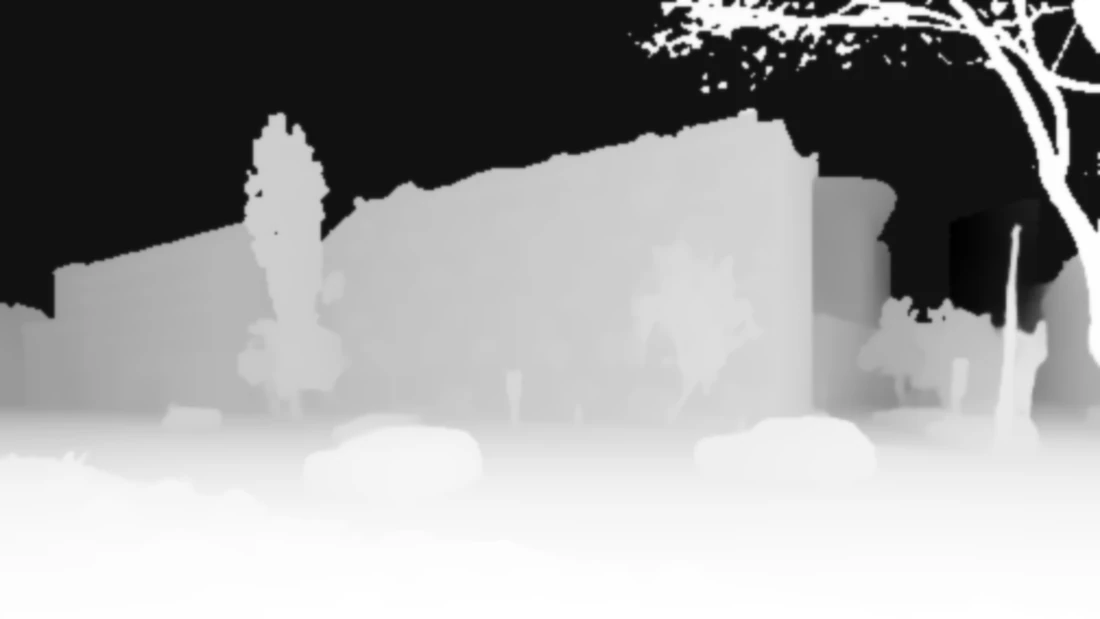
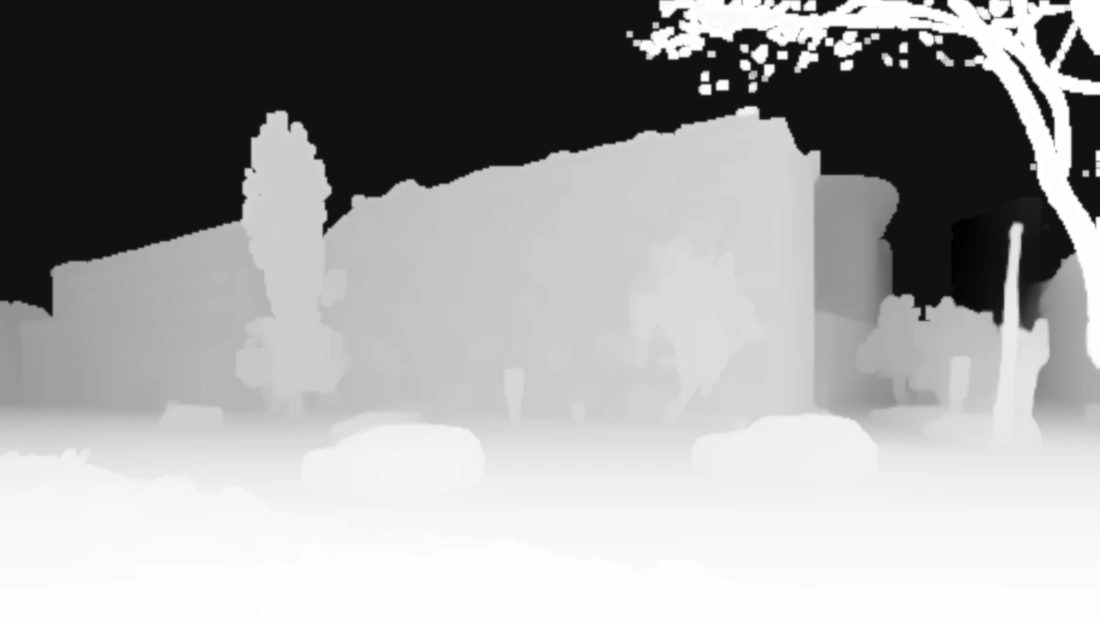
Fix WebGL hero artefacts (occlusion-correct parallax, crisp depth)

diff --git a/assets/js/hero-gl.js b/assets/js/hero-gl.js
@@ -21,33 +21,49 @@
   if (!gl) return;
 
   var VS = 'attribute vec2 p;varying vec2 v;void main(){v=p*.5+.5;gl_Position=vec4(p,0.,1.);}';
+  // Parallax is solved per pixel by marching the depth field from near to far: the first surface the ray meets wins,
+  // so foreground edges stay whole and the background fills in behind them (parallax occlusion mapping, 2.5D).
+  var STEPS = window.matchMedia('(pointer: coarse)').matches ? 12 : 16;
   var FS = [
     'precision highp float;',
+    '#define STEPS ' + STEPS,
     'varying vec2 v;',
     'uniform sampler2D uImg,uDepth;',
     'uniform vec2 uRes,uImgRes,uPos,uLook,uLight;',
-    'uniform float uScroll,uReveal,uTime,uFocus,uSpan,uLightAmt;',
+    'uniform float uScroll,uReveal,uTime,uFocus,uLightAmt;',
     'const vec3 INK=vec3(.078,.071,.059);',
     'const vec3 COPPER=vec3(.851,.580,.357);',
-    'float dep(vec2 q){return clamp((texture2D(uDepth,q).r-uFocus)/uSpan,-1.,1.);}', // -1 far .. 0 building .. +1 street
+    'vec2 S,FC,CAM; float Z;',
+    // how far a surface of depth t moves: the focus plane (the building) stays put, the street moves with the camera,
+    // the sky moves against it but less, as real disparity does
+    'float g(float t){return t>uFocus?(t-uFocus)/(1.-uFocus)*.5:(t-uFocus)/uFocus*.32;}',
+    'vec2 src(vec2 base,float t){vec2 b=base-CAM*g(t);return FC+(b-FC)/(1.+Z*(.25+.75*t));}',
+    'float H(vec2 q){return texture2D(uDepth,q).r;}',
     'void main(){',
     '  vec2 suv=vec2(v.x,1.-v.y);',
     '  float rc=uRes.x/uRes.y, ri=uImgRes.x/uImgRes.y;',
-    '  vec2 s=rc>ri?vec2(1.,ri/rc):vec2(rc/ri,1.);',
-    '  s*=.94;',                                                       // a little bleed so the edges never show
-    '  vec2 base=suv*s+(1.-s)*uPos;',
-    '  vec2 fc=vec2(.5,.46)*s+(1.-s)*uPos;',
-    '  vec2 cam=uLook*vec2(.016,.011)+vec2(sin(uTime*.21),cos(uTime*.16))*vec2(.0026,.0018);',
-    '  float z=uScroll*.16;',
-    '  vec2 q=base;',
-    '  for(int i=0;i<4;i++){',                                         // fixed point: sample where the displaced ray lands
-    '    float d=dep(q);',
-    '    vec2 b=base-cam*d;',
-    '    q=fc+(b-fc)/(1.+z*(.55+.45*d));',
+    '  S=rc>ri?vec2(1.,ri/rc):vec2(rc/ri,1.);',
+    '  S*=.92;',                                                       // bleed: larger than the largest shift, so no edge ever shows
+    '  vec2 base=suv*S+(1.-S)*uPos;',
+    '  FC=vec2(.5,.46)*S+(1.-S)*uPos;',
+    '  CAM=uLook*vec2(.009,.005)+vec2(sin(uTime*.21),cos(uTime*.16))*vec2(.0016,.0011);',
+    '  Z=uScroll*.14;',
+    '  float dt=1./float(STEPS);',
+    '  float tPrev=1.; float tHit=0.;',
+    '  bool top=H(src(base,1.))>=1.;',                                  // nearest possible surface already covers this pixel
+    '  for(int i=1;i<=STEPS;i++){',
+    '    float t=1.-float(i)*dt;',
+    '    if(H(src(base,t))>=t){tHit=t;break;}',                         // the ray reached a surface between tPrev and t
+    '    tPrev=t;',
     '  }',
-    '  float d=dep(q);',
+    '  for(int k=0;k<5;k++){',                                          // binary refinement: the exact edge, no combing on thin twigs
+    '    float tm=.5*(tHit+tPrev);',
+    '    if(H(src(base,tm))>=tm) tHit=tm; else tPrev=tm;',
+    '  }',
+    '  vec2 q=src(base,top?1.:tHit);',
+    '  float d=H(q);',
     '  vec3 col=texture2D(uImg,q).rgb;',
-    '  float blur=uScroll*abs(d)*.0055;',                              // depth of field on the way out, building stays sharp
+    '  float blur=uScroll*abs(d-uFocus)*.007;',                        // depth of field on the way out, building stays sharp
     '  if(blur>.0003){',
     '    vec2 a=vec2(blur/rc,blur);',
     '    col=col*.2',
@@ -57,22 +73,23 @@
     '      +texture2D(uImg,q+a*vec2( .7,-.7)).rgb*.1+texture2D(uImg,q+a*vec2(-.7,-.7)).rgb*.1;',
     '  }',
     '  vec2 lv=(suv-uLight)*vec2(rc,1.);',
-    '  col+=col*exp(-dot(lv,lv)*5.)*uLightAmt*.10*(.6+.4*max(d,0.));', // a soft lamp that follows the cursor
-    '  float kb=0.;',                                                   // depth blurred wide, so the front stays smooth on 8-bit steps
-    '  for(int j=0;j<8;j++){float a=float(j)*.785;kb+=texture2D(uDepth,q+vec2(cos(a)/rc,sin(a))*.022).r;}',
-    '  kb=1.-kb/8.;',                                                  // 0 near .. 1 far
-    '  float n=fract(sin(dot(suv*uRes,vec2(12.9898,78.233)))*43758.5453);',
-    '  float key=mix(kb,1.-suv.y,.5)+(n-.5)*.012;',                    // a sweep from the sky to the street that bends around the building
-    '  float r=clamp((uReveal-.08)/.92,0.,1.);',
-    '  float f=mix(1.2,-.25,r);',
-    '  float shown=smoothstep(f,f+.14,key);',
-    '  float ex=(key-f-.05)/.06; float edge=exp(-ex*ex);',
-    '  float bx=(key-f-.2)/.16; float bloom=exp(-bx*bx);',
-    '  float live=step(.001,1.-uReveal);',
-    '  float lum=dot(col,vec3(.299,.587,.114));',
-    '  vec3 pre=INK+vec3(lum)*vec3(.16,.14,.12)*smoothstep(0.,.12,uReveal);', // a dim ghost of the picture waiting in the dark
-    '  vec3 outc=mix(pre,col*(1.+.28*bloom*live),shown);',             // exposure blooms behind the front and settles
-    '  outc+=(COPPER*.5+col*.35)*edge*.7*live;',                       // warm light on the front
+    '  col+=col*exp(-dot(lv,lv)*5.)*uLightAmt*.10*(.6+.4*d);',         // a soft lamp that follows the cursor
+    '  vec3 outc=col;',
+    '  if(uReveal<1.){',                                                // reveal only: skipped once the picture is in
+    '    float kb=0.;',                                                 // front bends with depth, blurred wide so it stays smooth
+    '    for(int j=0;j<8;j++){float a=float(j)*.785;kb+=H(q+vec2(cos(a)/rc,sin(a))*.022);}',
+    '    kb=1.-kb/8.;',
+    '    float n=fract(sin(dot(suv*uRes,vec2(12.9898,78.233)))*43758.5453);',
+    '    float key=mix(kb,1.-suv.y,.5)+(n-.5)*.012;',
+    '    float r=clamp((uReveal-.08)/.92,0.,1.);',
+    '    float f=mix(1.2,-.25,r);',
+    '    float shown=smoothstep(f,f+.14,key);',
+    '    float ex=(key-f-.05)/.06; float edge=exp(-ex*ex);',
+    '    float bx=(key-f-.2)/.16; float bloom=exp(-bx*bx);',
+    '    float lum=dot(col,vec3(.299,.587,.114));',
+    '    vec3 pre=INK+vec3(lum)*vec3(.16,.14,.12)*smoothstep(0.,.12,uReveal);',
+    '    outc=mix(pre,col*(1.+.28*bloom),shown)+(COPPER*.5+col*.35)*edge*.7;',
+    '  }',
     '  gl_FragColor=vec4(outc,1.);',
     '}'
   ].join('\n');
@@ -100,7 +117,7 @@
   gl.enableVertexAttribArray(loc);
   gl.vertexAttribPointer(loc, 2, gl.FLOAT, false, 0, 0);
   var U = {};
-  ['uImg', 'uDepth', 'uRes', 'uImgRes', 'uPos', 'uLook', 'uLight', 'uScroll', 'uReveal', 'uTime', 'uFocus', 'uSpan', 'uLightAmt']
+  ['uImg', 'uDepth', 'uRes', 'uImgRes', 'uPos', 'uLook', 'uLight', 'uScroll', 'uReveal', 'uTime', 'uFocus', 'uLightAmt']
     .forEach(function (n) { U[n] = gl.getUniformLocation(prog, n); });
 
   function texture(unit, source) {
@@ -134,8 +151,8 @@
   var ready = load(img).then(function () {
     var tall = /tall/.test(img.currentSrc || img.src);
     cfg = tall
-      ? { depth: 'assets/img/hero-tall-depth-600.webp', focus: 0.42, span: 0.55, pos: [0.5, 0.30] }
-      : { depth: 'assets/img/hero-depth-1100.webp', focus: 0.78, span: 0.24, pos: [0.5, 0.42] };
+      ? { depth: 'assets/img/hero-tall-depth-600.webp?v=2', focus: 0.40, pos: [0.5, 0.30] }
+      : { depth: 'assets/img/hero-depth-1100.webp?v=2', focus: 0.78, pos: [0.5, 0.42] };
     var dimg = new Image();
     dimg.decoding = 'async';
     dimg.src = cfg.depth;
@@ -149,7 +166,6 @@
     gl.uniform2f(U.uImgRes, img.naturalWidth, img.naturalHeight);
     gl.uniform2f(U.uPos, cfg.pos[0], cfg.pos[1]);
     gl.uniform1f(U.uFocus, cfg.focus);
-    gl.uniform1f(U.uSpan, cfg.span);
     media.insertBefore(canvas, media.querySelector('.hero__scrim'));
     size();
     draw(performance.now());
@@ -160,7 +176,7 @@
 
   function size() {
     var r = media.getBoundingClientRect();
-    var dpr = Math.min(window.devicePixelRatio || 1, 1.75);
+    var dpr = Math.min(window.devicePixelRatio || 1, 1.5); // the source is 2200 px wide, more pixels add cost, not detail
     var w = Math.round(r.width * dpr), h = Math.round(r.height * dpr);
     if (canvas.width !== w || canvas.height !== h) { canvas.width = w; canvas.height = h; }
     gl.viewport(0, 0, w, h);

diff --git a/index.html b/index.html
@@ -465,7 +465,7 @@
 <script src="assets/vendor/SplitText.min.js?v=3.15.0" defer></script>
 <script src="assets/vendor/DrawSVGPlugin.min.js?v=3.15.0" defer></script>
 <script src="assets/vendor/MotionPathPlugin.min.js?v=3.15.0" defer></script>
-<script src="assets/js/hero-gl.js?v=3" defer></script>
+<script src="assets/js/hero-gl.js?v=8" defer></script>
 <script src="assets/js/motion.js?v=4" defer></script>
 <script src="assets/js/teaser.js?v=18" defer></script>
 </body>
